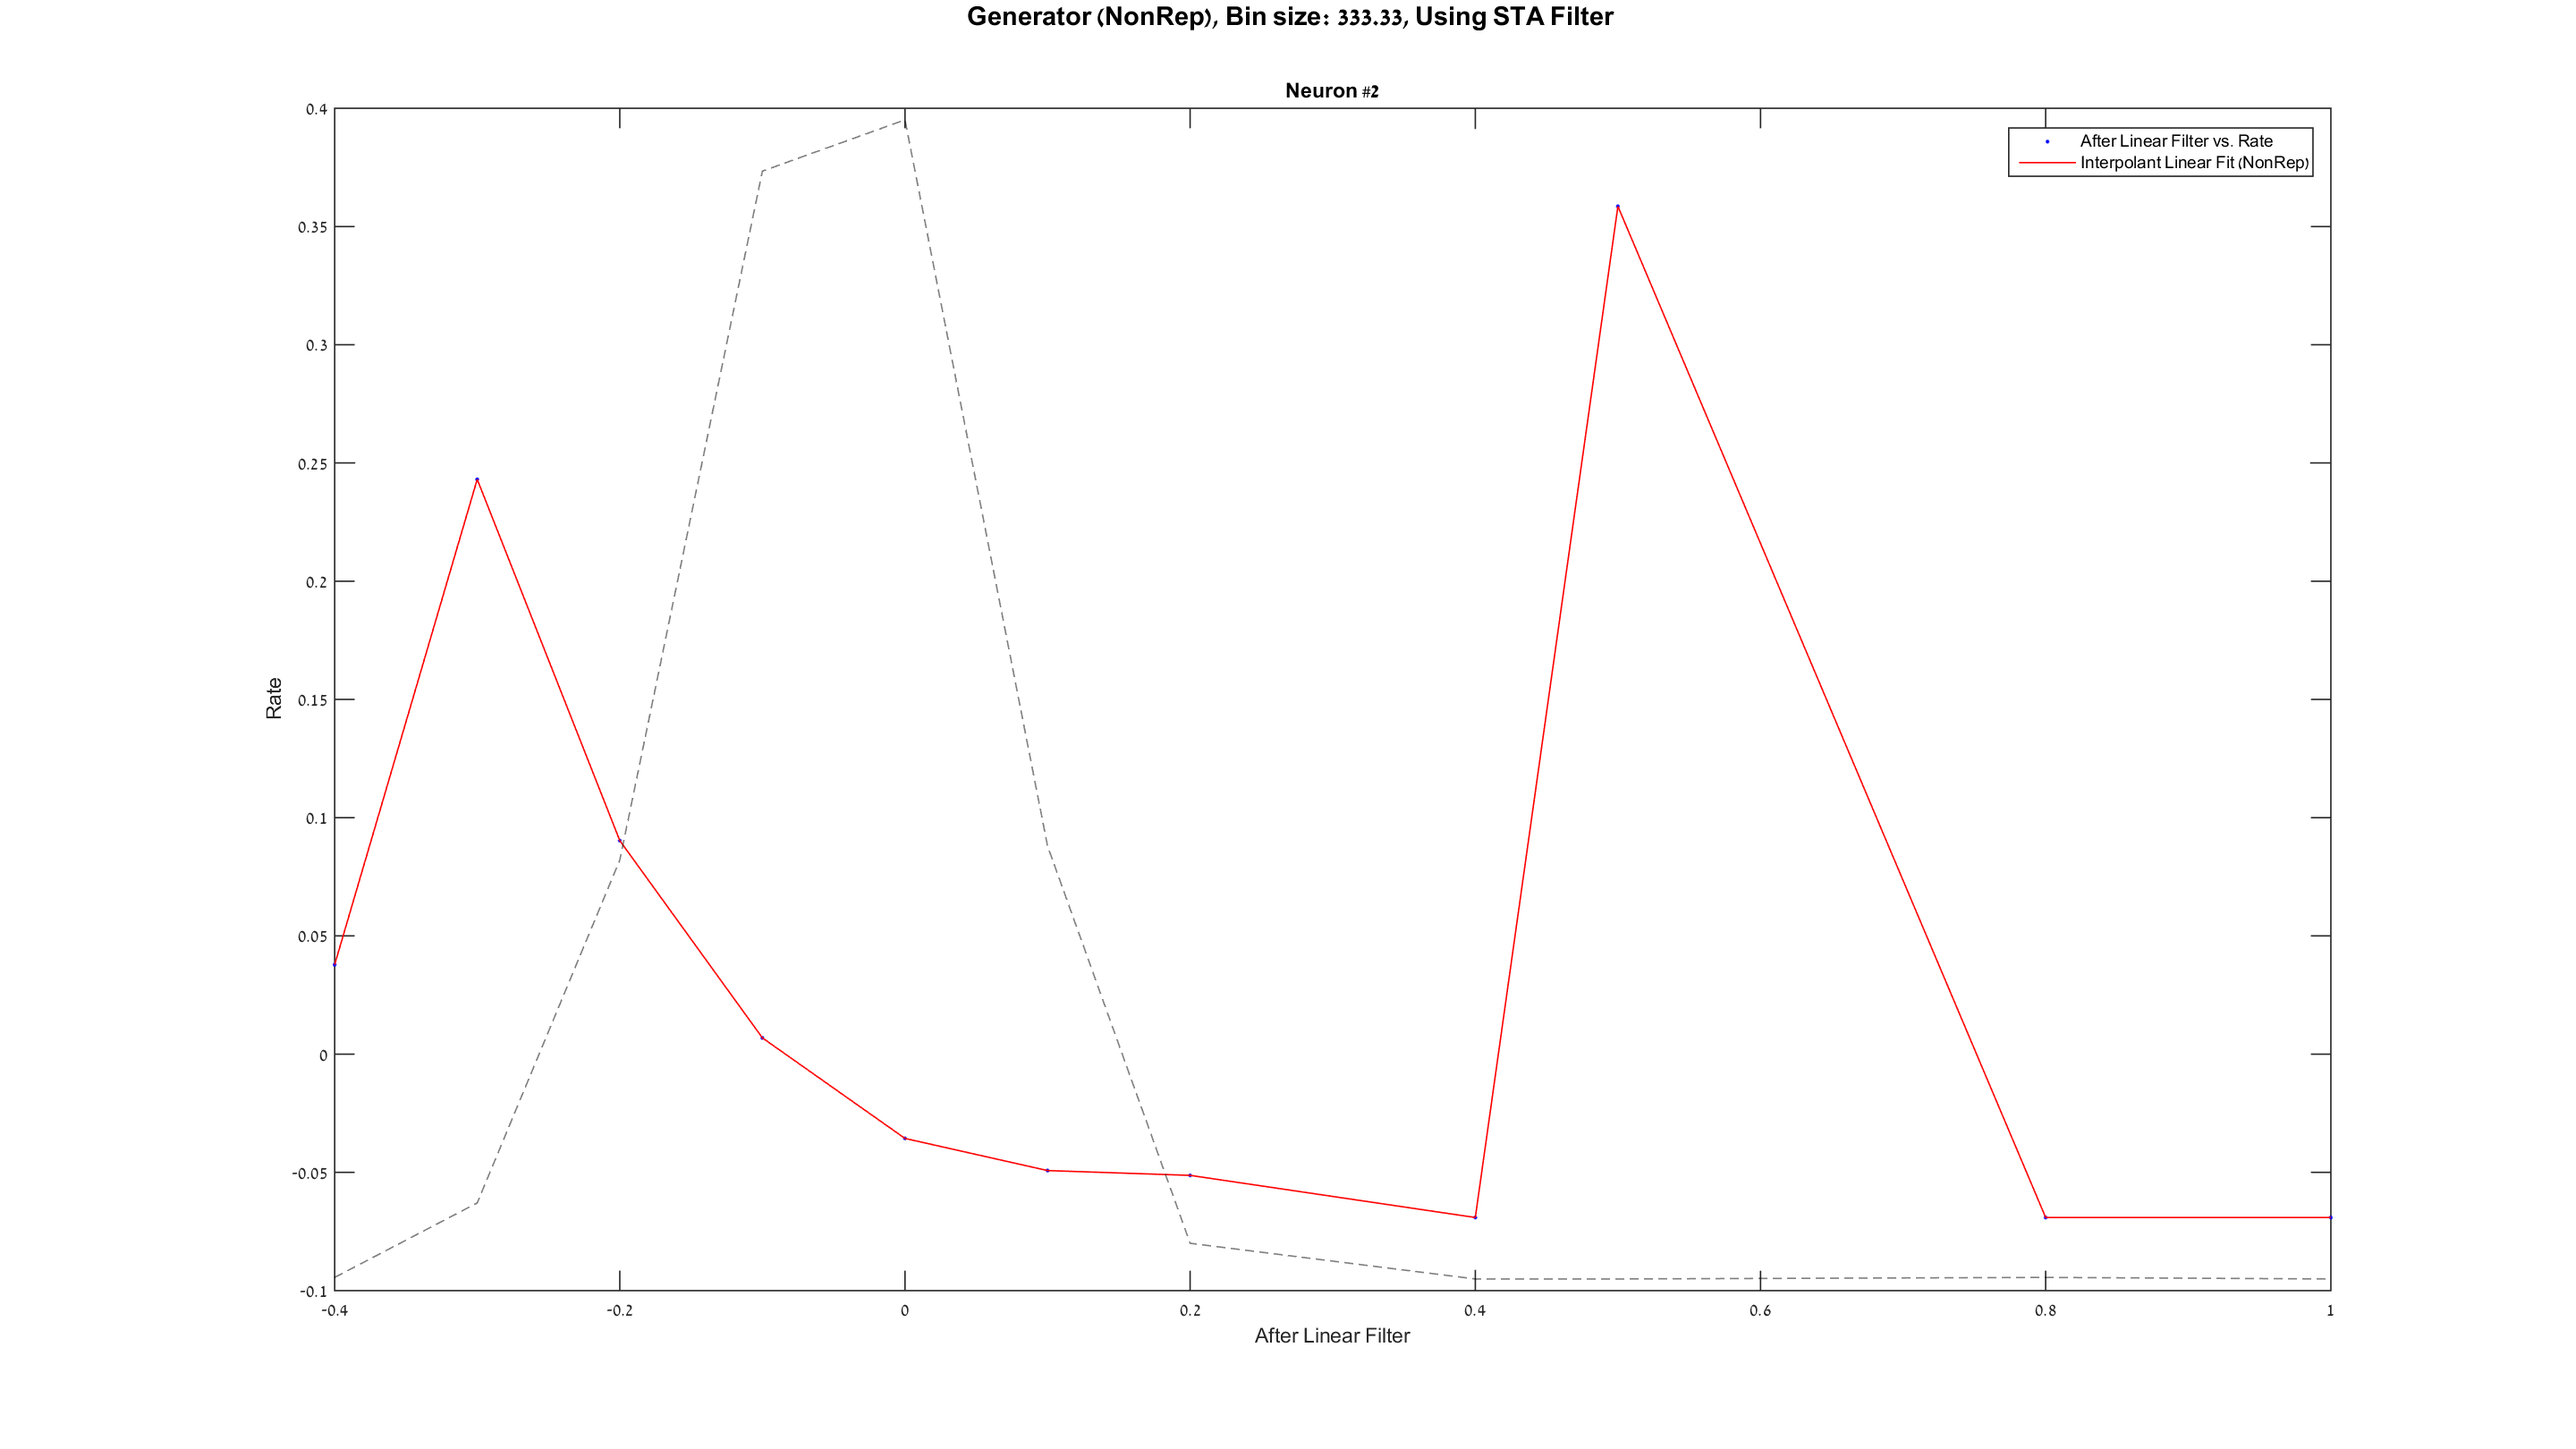
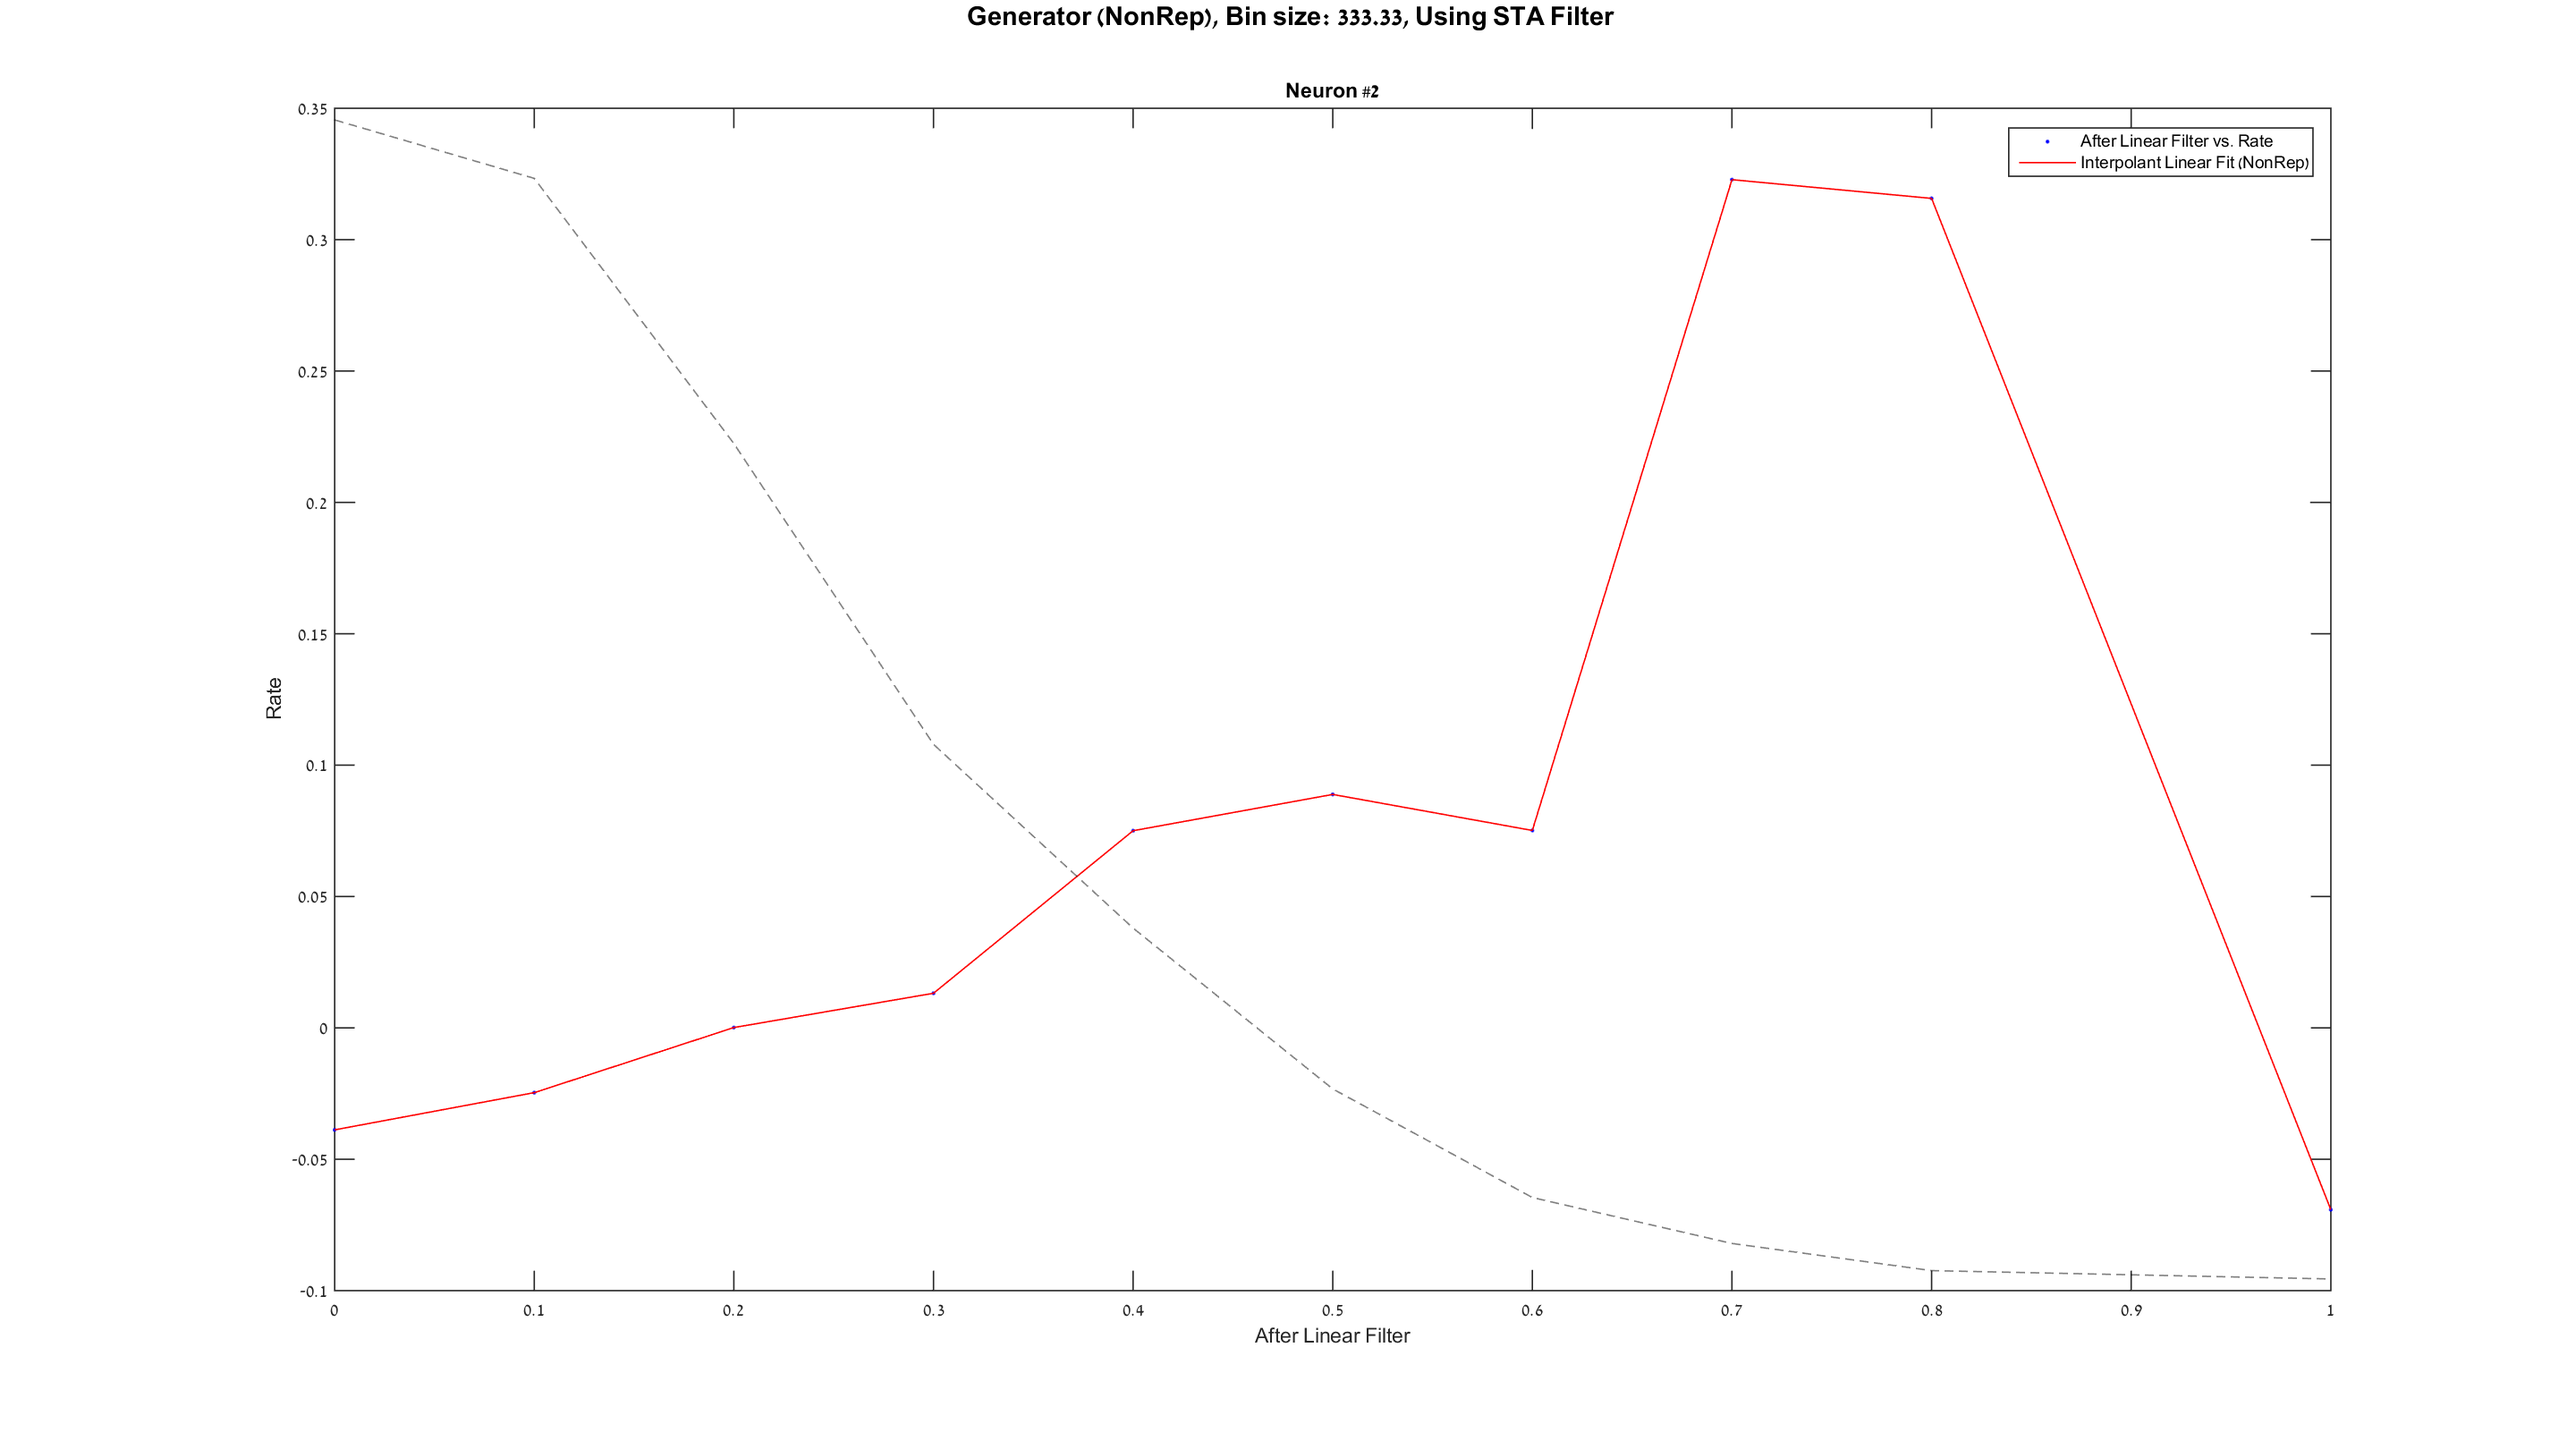
QnD: funLinearWindow to test; conv flipped valid
using conv filter flipped 'valid' after testing using funLinearWindow()

diff --git a/4/QuickAndDirty.m b/4/QuickAndDirty.m
@@ -153,26 +153,21 @@ iIteration=1;
 
 %create another column for the filtered data
 data = Simulation.Neuron{iNeuron}.Iteration{iIteration};
-data(:, 4) = NaN(length(data), 1);
-
-stimValues = data(:,2);
+stimValues = data(:, 2);
 
 %NOTE: we decided not to normalize stim values before conv
 
-%update normalized values
-data(:,2) = stimValues;
+% convolve flipped filter (because conv flips it) with stimValues
+stimsAfterLinearFilter = conv(stimValues, flipud(Filter'), 'valid');
 
-% convolve filter with stimValues
-stimsAfterLinearFilter = conv(stimValues, Filter');
+%{
+% run a Filter as a linear window on stimValues
+%stimsAfterLinearFilter2 = funLinearWindow(stimValues, Filter');
+%}
 
-%throw partial convolved vals
-STIMS_TO_THROW_AFTER_CONV = STA_WINDOW_IN_TICKS/2; %5000
-stimsAfterLinearFilter(1:STIMS_TO_THROW_AFTER_CONV-1) = [];
-stimsAfterLinearFilter(end-STIMS_TO_THROW_AFTER_CONV+1:end) = [];
+convedDiff = length(stimValues)-length(stimsAfterLinearFilter);
 
-%throw partial convolved vals, throw entire STA window from start
-%stimsAfterLinearFilter(1:STA_WINDOW_IN_TICKS-1) = [];
-
+data = data(convedDiff+1:end, :);
 data(:,4) = stimsAfterLinearFilter;
 
 %NOTE: free space
@@ -183,6 +178,9 @@ data(:,4) = stimsAfterLinearFilter;
 nextIterationIndex = lastIterationIndex + length(data) + 1;
 neuronData(lastIterationIndex+1:nextIterationIndex-1,:) = data;
 lastIterationIndex = nextIterationIndex-1;
+
+%get only used data vs allocated
+neuronData = neuronData(1:lastIterationIndex, :);
     
 Simulation.Neuron{iNeuron}.Data = neuronData;
 
@@ -226,11 +224,10 @@ iBinSize=1;
         psth = rateData(:, 2);
         binnedStimsAfterLinearFilter = rateData(:, 3);
 
-        NORMALIZE = 1;
-        NORMALIZE_BY_MAX = 1;
-        
+        NORMALIZE = 1; NORMALIZE_BY_MAX = 1;
         psth = normalize(psth, NORMALIZE, NORMALIZE_BY_MAX);
                
+        NORMALIZE = 1; NORMALIZE_BY_MAX = 1;
         binnedStimsAfterLinearFilter = normalize(binnedStimsAfterLinearFilter, NORMALIZE, NORMALIZE_BY_MAX);
         %TODO: we try abs here to make the estimate positive
         %binnedStimsAfterLinearFilter = abs(binnedStimsAfterLinearFilter);

diff --git a/4/Tests/funLinearWindowWithZeros.m b/4/Tests/funLinearWindowWithZeros.m
@@ -1,0 +1,23 @@
+function [ y ] = funLinearWindowWithZeros( x, h )
+%FUNLINEARWINDOW passes a linear window h on the input x
+%   Expects x and h to be row vectors
+    %see http://matlabtricks.com/post-3/the-basics-of-convolution
+    %y = zeros(length(h)-1 + length(x), 1);
+    
+    xPad = x;
+    xPad = padarray(xPad, [length(h)-1 0], 0, 'pre');
+    xPad = padarray(xPad, [length(h)-1 0], 0, 'post');
+    
+    yPad = zeros(length(h)-1 + length(x), 1);
+        
+    for i = 1:(length(h)-1 + length(x))
+        xx = xPad(i:i+length(h)-1);
+        yPad(i, 1) = h'*xx;
+    end
+    
+    yPad(length(yPad)-(length(h)-1)+1:length(yPad)) = [];
+    yPad(1:(length(h)-1)) = [];
+    
+    y = yPad;
+end
+

diff --git a/4/Tests/funLinearWindow.m b/4/Tests/funLinearWindow.m
@@ -1,0 +1,23 @@
+function [ y ] = funLinearWindow( x, h )
+%FUNLINEARWINDOW passes a linear window h on the input x
+%   Expects x and h to be row vectors
+%   Nans must be excluded from all inputs
+    %see http://matlabtricks.com/post-3/the-basics-of-convolution
+    
+    %we use NaNs to filter partial convolved values
+    xPad = x;
+    xPad = padarray(xPad, [length(h)-1 0], NaN, 'pre');
+    xPad = padarray(xPad, [length(h)-1 0], NaN, 'post');
+    
+    yPad = zeros(length(h)-1 + length(x), 1);
+        
+    for i = 1:(length(h)-1 + length(x))
+        xx = xPad(i:i+length(h)-1);
+        yPad(i, 1) = h'*xx;
+    end
+    
+    yPad(isnan(yPad)) = [];
+    
+    y = yPad;
+end
+

diff --git a/4/funLinearWindow.m b/4/funLinearWindow.m
@@ -1,0 +1,23 @@
+function [ y ] = funLinearWindow( x, h )
+%FUNLINEARWINDOW passes a linear window h on the input x
+%   Expects x and h to be row vectors
+%   Nans must be excluded from all inputs
+    %see http://matlabtricks.com/post-3/the-basics-of-convolution
+    
+    %we use NaNs to filter partial convolved values
+    xPad = x;
+    xPad = padarray(xPad, [length(h)-1 0], NaN, 'pre');
+    xPad = padarray(xPad, [length(h)-1 0], NaN, 'post');
+    
+    yPad = zeros(length(h)-1 + length(x), 1);
+        
+    for i = 1:(length(h)-1 + length(x))
+        xx = xPad(i:i+length(h)-1);
+        yPad(i, 1) = h'*xx;
+    end
+    
+    yPad(isnan(yPad)) = [];
+    
+    y = yPad;
+end
+
